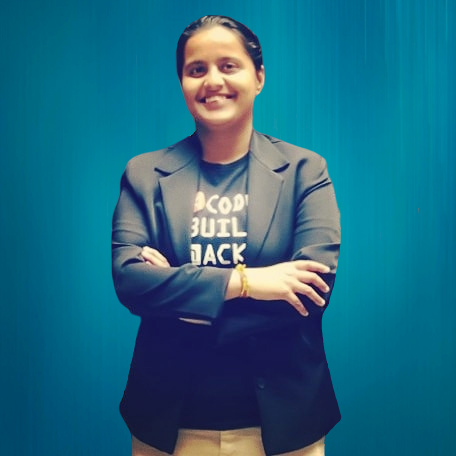
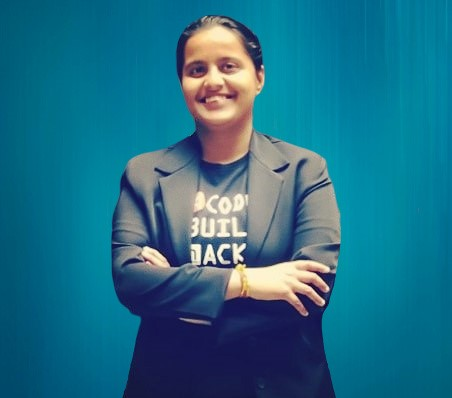
Bugs fixed.. unnecessary commits deleted

Changed region(s): [[0.2168, 0.0302, 0.7743, 1.0]]

diff --git a/index.html b/index.html
@@ -99,29 +99,28 @@
       <section class="ftco-section about-section">
         <div class="container">
           <div class="row d-flex" data-scrollax-parent="true">
-            <div class="col-md-4 author-img" style="background-image: url(images/p1.jpg);" data-scrollax=" properties: { translateY: '-70%'}"></div>
+            <div class="col-md-4 author-img" align="center" alt="responsive-design" style="background-image: url(images/p1.jpg);" data-scrollax=" properties: { translateY: '-70%'}"></div>
             <div class="col-md-2"></div>
             <div class="col-md-6 wrap ftco-animate">
               <div class="about-desc">
                 <h1 class="bold-text">About</h1>
 				</div>
                 <div class="p-5">
-                  <h2 class="mb-5">Hi! I'm Taniya Gupta</h2>
+                  <h1 class="mb-5">Hi! I'm Taniya Gupta</h1>
                   <ul class="ftco-footer-social list-unstyled mt-4">
-			        <h4 class="mb-3">Checkout My Profiles here : </h4>
-					<li><a class="colorlib-logo" href="https://leetcode.com/thetaniyagupta/"><span class="logo-img" ><img src="./images/p3.png" align="center" width="50" alt=""></span></a></li>
-					<li><a class="colorlib-logo" href="https://www.hackerrank.com/thetaniyagupta/"><span class="logo-img" ><img src="./images/p4.png" align="center" width="50" alt=""></span></a></li>
-                    <li><a href="https://github.com/thetaniyagupta"><span class="icon-github"></span></a></li>
-					<li><a href="https://www.linkedin.com/in/thetaniyagupta/"><span class="icon-linkedin"></span></a></li>
-					<li><a href="https://www.facebook.com/thetaniyagupta"><span class="icon-facebook"></span></a></li>
-					<li><a href="https://thetaniyagupta.wordpress.com/"><span class="icon-wordpress"></span></a></li>
+			        <h4 class="mb-3">Checkout My Profiles here: </h4>
+					<li class = "ftco-animate"><a class="colorlib-logo" href="https://leetcode.com/thetaniyagupta/"><span class="logo-img" ><img src="./images/p3.png" align="center" width="30" alt=""></span></a></li>
+					<li class="ftco-animate"><a class="colorlib-logo" href="https://www.hackerrank.com/thetaniyagupta/"><span class="logo-img" ><img src="./images/p4.png" align="center" width="40" alt=""></span></a></li>
+                    <li class="ftco-animate"><a href="https://github.com/thetaniyagupta"><span class="icon-github"></span></a></li>
+					<li class="ftco-animate"><a href="https://thetaniyagupta.medium.com/"><span class="icon-medium"></span></a></li>
+					<li class="ftco-animate"><a href="https://www.linkedin.com/in/thetaniyagupta/"><span class="icon-linkedin"></span></a></li>
+						<li class="ftco-animate"><a href="https://www.facebook.com/thetaniyagupta"><span class="icon-facebook"></span></a></li>
+					<li class="ftco-animate"><a href="https://thetaniyagupta.wordpress.com/"><span class="icon-wordpress"></span></a></li>
 				  </ul>
-				  <a class="primary_btn" href="https://drive.google.com/file/d/1kGXrFimn9OOHi8U9JST1sL9ov-rwcWfl/view?usp=sharing"><span> Get My CV</span></a>
-				  
 				  <a class="primary_btn" href="https://drive.google.com/file/d/1Hf1lsLSv6RbwRTsYmbRR-NNr56U1QmFq/view?usp=sharing"><span>Get My Resume</span></a>
+				  <a class="primary_btn" href="https://form.typeform.com/to/Lv9xkxKO"><span>Get in Touch</span></a>
 				  <p> </p>
-                  <h5>Contact me here!</h5>
-                  <p>Email: <a href="mailto:thetaniyagupta@gmail.com">thetaniyagupta@gmail.com</a></p>
+				 
             </div>
 			</div>
           </div>
@@ -255,7 +254,7 @@ Examination
 													</div>
 										      		<div class="col-md-6">
 										      			<div class="year">
-          					                            <p>2009 - 2014</p>
+          					                            <p>2014</p>
 														<p>Percentage - 86.4% </P>
           				                               </div>
 										      		</div>
@@ -511,17 +510,18 @@ smart watches & VR Headset. Virtual Play Station alternative requiring no additi
                 <ul class="ftco-footer-social list-unstyled">
 				
 				<h4 class="mb-3">Checkout My Profiles here: </h4>
-                  <li class="ftco-animate"><a class="colorlib-logo" href="https://leetcode.com/thetaniyagupta/"><span class="logo-img" ><img src="./images/p3.png" align="center" width="50" alt=""></span></a></li>
-					<li class="ftco-animate"><a class="colorlib-logo" href="https://www.hackerrank.com/thetaniyagupta/"><span class="logo-img" ><img src="./images/p4.png" align="center" width="50" alt=""></span></a></li>
+                  <li class="ftco-animate"><a class="colorlib-logo" href="https://leetcode.com/thetaniyagupta/"><span class="logo-img" ><img src="./images/p3.png" align="center" width="30" alt=""></span></a></li>
+					<li class="ftco-animate"><a class="colorlib-logo" href="https://www.hackerrank.com/thetaniyagupta/"><span class="logo-img" ><img src="./images/p4.png" align="center" width="40" alt=""></span></a></li>
 				  <li class="ftco-animate"><a href="https://github.com/thetaniyagupta"><span class="icon-github"></span></a></li>
+				  	<li class="ftco-animate"><a href="https://thetaniyagupta.medium.com/"><span class="icon-medium"></span></a></li>
                   <li class="ftco-animate"><a href="https://www.linkedin.com/in/thetaniyagupta/"><span class="icon-linkedin"></span></a></li>
 					<li class="ftco-animate"><a href="https://www.facebook.com/thetaniyagupta"><span class="icon-facebook"></span></a></li>
-				  <li class="ftco-animate"><a href="https://thetaniyagupta.wordpress.com/"><span class="icon-wordpress"></span></a></li>
+					<li class="ftco-animate"><a href="https://thetaniyagupta.wordpress.com/"><span class="icon-wordpress"></span></a></li>
                 </ul>
               </div>
               <div class="ftco-footer-widget">
                 <h2 class="mb-3">Contact Me</h2>
-                <p class="h3 email"><a href="mailto:thetaniyagupta@gmail.com">thetaniyagupta@gmail</a></p>
+                <p class="h3 email"><a href="mailto:thetaniyagupta@gmail.com">thetaniyagupta</a></p>
               </div>
             </div>
           </div>

diff --git a/css/style.css b/css/style.css
@@ -96,12 +96,12 @@ address {
   
 .primary_btn {
   display: inline-block;
-  color:  #fff;
+  color:  #000000;
   letter-spacing: 0px;
   font-family: "Rubik", sans-serif;
   font-weight: 500;
   font-size: 14px;
-  line-height: 46px;
+  line-height: 35px;
   outline: none !important;
   text-align: center;
   cursor: pointer;
@@ -109,29 +109,29 @@ address {
   border-radius: 10px;
   background-origin: border-box;
   background-clip: content-box, border-box;
-  background-image: linear-gradient(to right, #4458dc 0%, #854fee 100%), radial-gradient(circle at top left, #4458dc, #854fee);
+  background-image: linear-gradient( #fff,  #fff), radial-gradient(circle at top left, #bdc3c7 , #2c3e50 );
   border: double 2px transparent;
-  box-shadow: 0px 10px 30px rgba(118, 85, 225, 0.3);
+  box-shadow: 0px 10px 30px rgba(240,248,255,0.3);
   margin: 5px; }
   
   .primary_btn span {
-    padding: 0 42px; }
+    padding: 0 10px; }
+   .primary_btn:hover {
+    background-image: linear-gradient(to right, #2c3e50 20%, #bdc3c7 80%), radial-gradient(circle at top left, #bdc3c7, #2c3e50);
+    border: 2px solid #2c3e50;
+    color: #fff;
+    box-shadow: none;
+    background-clip: border-box; }
 	.primary_btn.tr-bg {
-    background-image: linear-gradient( #fff,  #fff), radial-gradient(circle at top left, #4458dc, #854fee);
+    background-image: linear-gradient(to right, #2c3e50 0%, #bdc3c7 100%), radial-gradient(circle at top left, #bdc3c7, #2c3e50);
     border: 2px solid transparent;
     color: #222222;
     box-shadow: none; }
     .primary_btn.tr-bg:hover {
-      background-image: linear-gradient(to right, #4458dc 0%, #854fee 100%), radial-gradient(circle at top left, #4458dc, #854fee);
+      background-image: linear-gradient(to right, #bdc3c7 0%, #2c3e50 100%), radial-gradient(circle at top left, #bdc3c7, #2c3e50);
       border: double 2px transparent;
       color:  #fff;
-      box-shadow: 0px 10px 30px rgba(118, 85, 225, 0.3); }
-	.primary_btn:hover {
-    background-image: linear-gradient( #fff,  #fff), radial-gradient(circle at top left, #4458dc, #854fee);
-    border: 2px solid #854fee;
-    color: #222222;
-    box-shadow: none;
-    background-clip: border-box; }
+      box-shadow: 0px 10px 30px rgba(240,248,255,0.3); }
 	
 ol,
 ul,
@@ -7613,10 +7613,13 @@ header {
   font-weight: 300;
   letter-spacing: 1px; }
 
-@media (max-width: 767.98px) {
+@media {
   .about-section .author-img {
-    display: block;
-    height: 300px; } }
+   display: block;
+    height: 350px;
+    width : 350px;	
+	border-radius: 50%;
+	} }
 
 .wrap {
   padding: 0; }
@@ -7668,7 +7671,7 @@ header {
     float: left; }
 		
   .exp-wrap .desc {
-    width: calc(100% - 270px);	
+    width: calc(100% - 200px);	
 	}
 	 .exp-wrap .desc h4 {
       color: #dc3545;
@@ -7685,7 +7688,7 @@ header {
           color: #8c8c8c	  }
   .exp-wrap .year {
 	 
-    width: 180px; }
+    width: 175px; }
 
 .progress-wrap {
   margin-bottom: 30px; }
@@ -7888,17 +7891,17 @@ textarea.form-control {
 	
 .ftco-footer-social li {
   list-style: none;
-  margin: 0 10px 10px 0;
+  margin: 0 15px 15px 0;
   display: inline-block; }
   .ftco-footer-social li a {
     
 	color: #000000;
-	height: 60px;
-    width: 60px;
+	height: 40px;
+    width: 40px;
     display: block;
     float: left;
     background: rgba(0,0,0, 0.05);
-    border-radius: 50%;
+    border-radius: 70%;
     position: relative; }
     .ftco-footer-social li a span {
       

diff --git a/about.html b/about.html
@@ -1,7 +1,7 @@
 <!DOCTYPE html>
 <html lang="en">
   <head>
-    <title>About - Taniya Gupta</title>
+    <title>Taniya Gupta</title>
     <meta charset="utf-8">
     <meta name="viewport" content="width=device-width, initial-scale=1, shrink-to-fit=no">
     
@@ -214,7 +214,7 @@ Examination
 													</div>
 										      		<div class="col-md-6">
 										      			<div class="year">
-          					                            <p>2009 - 2014</p>
+          					                            <p>2014</p>
 														<p>Percentage - 86.4% </P>
           				                               </div>
 										      		</div>
@@ -237,17 +237,18 @@ Examination
               <div class="ftco-footer-widget mb-5">
                 <ul class="ftco-footer-social list-unstyled">
 					<h4 class="mb-3">Checkout My Profiles here: </h4>
-                  <li class="ftco-animate"><a class="colorlib-logo" href="https://leetcode.com/thetaniyagupta/"><span class="logo-img" ><img src="./images/p3.png" align="center" width="50" alt=""></span></a></li>
-					<li class="ftco-animate"><a class="colorlib-logo" href="https://www.hackerrank.com/thetaniyagupta/"><span class="logo-img" ><img src="./images/p4.png" align="center" width="50" alt=""></span></a></li>
+                  <li class="ftco-animate"><a class="colorlib-logo" href="https://leetcode.com/thetaniyagupta/"><span class="logo-img" ><img src="./images/p3.png" align="center" width="30" alt=""></span></a></li>
+					<li class="ftco-animate"><a class="colorlib-logo" href="https://www.hackerrank.com/thetaniyagupta/"><span class="logo-img" ><img src="./images/p4.png" align="center" width="40" alt=""></span></a></li>
 				  <li class="ftco-animate"><a href="https://github.com/thetaniyagupta"><span class="icon-github"></span></a></li>
+				  	<li class="ftco-animate"><a href="https://thetaniyagupta.medium.com/"><span class="icon-medium"></span></a></li>
                   <li class="ftco-animate"><a href="https://www.linkedin.com/in/thetaniyagupta/"><span class="icon-linkedin"></span></a></li>
 					<li class="ftco-animate"><a href="https://www.facebook.com/thetaniyagupta"><span class="icon-facebook"></span></a></li>
-				  <li class="ftco-animate"><a href="https://thetaniyagupta.wordpress.com/"><span class="icon-wordpress"></span></a></li>
+					<li class="ftco-animate"><a href="https://thetaniyagupta.wordpress.com/"><span class="icon-wordpress"></span></a></li>
                 </ul>
               </div>
               <div class="ftco-footer-widget">
                 <h2 class="mb-3">Contact Me</h2>
-                <p class="h3 email"><a href="mailto:thetaniyagupta@gmail.com">thetaniyagupta@gmail</a></p>
+                <p class="h3 email"><a href="mailto:thetaniyagupta@gmail.com">thetaniyagupta</a></p>
               </div>
             </div>
           </div>

diff --git a/projects.html b/projects.html
@@ -210,17 +210,18 @@ smart watches & VR Headset. Virtual Play Station alternative requiring no additi
               <div class="ftco-footer-widget mb-5">
                 <ul class="ftco-footer-social list-unstyled">
 					<h4 class="mb-3">Checkout My Profiles here: </h4>
-                  <li class="ftco-animate"><a class="colorlib-logo" href="https://leetcode.com/thetaniyagupta/"><span class="logo-img" ><img src="./images/p3.png" align="center" width="50" alt=""></span></a></li>
-					<li class="ftco-animate"><a class="colorlib-logo" href="https://www.hackerrank.com/thetaniyagupta/"><span class="logo-img" ><img src="./images/p4.png" align="center" width="50" alt=""></span></a></li>
+                 <li class="ftco-animate"><a class="colorlib-logo" href="https://leetcode.com/thetaniyagupta/"><span class="logo-img" ><img src="./images/p3.png" align="center" width="30" alt=""></span></a></li>
+					<li class="ftco-animate"><a class="colorlib-logo" href="https://www.hackerrank.com/thetaniyagupta/"><span class="logo-img" ><img src="./images/p4.png" align="center" width="40" alt=""></span></a></li>
 				  <li class="ftco-animate"><a href="https://github.com/thetaniyagupta"><span class="icon-github"></span></a></li>
+				  	<li class="ftco-animate"><a href="https://thetaniyagupta.medium.com/"><span class="icon-medium"></span></a></li>
                   <li class="ftco-animate"><a href="https://www.linkedin.com/in/thetaniyagupta/"><span class="icon-linkedin"></span></a></li>
 					<li class="ftco-animate"><a href="https://www.facebook.com/thetaniyagupta"><span class="icon-facebook"></span></a></li>
-				  <li class="ftco-animate"><a href="https://thetaniyagupta.wordpress.com/"><span class="icon-wordpress"></span></a></li>
+					<li class="ftco-animate"><a href="https://thetaniyagupta.wordpress.com/"><span class="icon-wordpress"></span></a></li>
                 </ul>
               </div>
               <div class="ftco-footer-widget">
                 <h2 class="mb-3">Contact Me</h2>
-                <p class="h3 email"><a href="mailto:thetaniyagupta@gmail.com">thetaniyagupta@gmail</a></p>
+                <p class="h3 email"><a href="mailto:thetaniyagupta@gmail.com">thetaniyagupta</a></p>
               </div>
             </div>
           </div>

diff --git a/contact.html b/contact.html
@@ -119,17 +119,18 @@
               <div class="ftco-footer-widget mb-5">
                 <ul class="ftco-footer-social list-unstyled">
 					<h4 class="mb-3">Checkout My Profiles here: </h4>
-                  <li class="ftco-animate"><a class="colorlib-logo" href="https://leetcode.com/thetaniyagupta/"><span class="logo-img" ><img src="./images/p3.png" align="center" width="50" alt=""></span></a></li>
-					<li class="ftco-animate"><a class="colorlib-logo" href="https://www.hackerrank.com/thetaniyagupta/"><span class="logo-img" ><img src="./images/p4.png" align="center" width="50" alt=""></span></a></li>
+               <li class="ftco-animate"><a class="colorlib-logo" href="https://leetcode.com/thetaniyagupta/"><span class="logo-img" ><img src="./images/p3.png" align="center" width="30" alt=""></span></a></li>
+					<li class="ftco-animate"><a class="colorlib-logo" href="https://www.hackerrank.com/thetaniyagupta/"><span class="logo-img" ><img src="./images/p4.png" align="center" width="40" alt=""></span></a></li>
 				  <li class="ftco-animate"><a href="https://github.com/thetaniyagupta"><span class="icon-github"></span></a></li>
+				  	<li class="ftco-animate"><a href="https://thetaniyagupta.medium.com/"><span class="icon-medium"></span></a></li>
                   <li class="ftco-animate"><a href="https://www.linkedin.com/in/thetaniyagupta/"><span class="icon-linkedin"></span></a></li>
 					<li class="ftco-animate"><a href="https://www.facebook.com/thetaniyagupta"><span class="icon-facebook"></span></a></li>
-				  <li class="ftco-animate"><a href="https://thetaniyagupta.wordpress.com/"><span class="icon-wordpress"></span></a></li>
+					<li class="ftco-animate"><a href="https://thetaniyagupta.wordpress.com/"><span class="icon-wordpress"></span></a></li>
                 </ul>
               </div>
               <div class="ftco-footer-widget">
                 <h2 class="mb-3">Contact Me</h2>
-                <p class="h3 email"><a href="mailto:thetaniyagupta@gmail.com">thetaniyagupta@gmail</a></p>
+                <p class="h3 email"><a href="mailto:thetaniyagupta@gmail.com">thetaniyagupta</a></p>
               </div>
             </div>
           </div>

diff --git a/portfolio.html b/portfolio.html
@@ -312,17 +312,18 @@
               <div class="ftco-footer-widget mb-5">
                 <ul class="ftco-footer-social list-unstyled">
 					<h4 class="mb-3">Checkout My Profiles here: </h4>
-                 <li class="ftco-animate"><a class="colorlib-logo" href="https://leetcode.com/thetaniyagupta/"><span class="logo-img" ><img src="./images/p3.png" align="center" width="50" alt=""></span></a></li>
-					<li class="ftco-animate"><a class="colorlib-logo" href="https://www.hackerrank.com/thetaniyagupta/"><span class="logo-img" ><img src="./images/p4.png" align="center" width="50" alt=""></span></a></li>
+              <li class="ftco-animate"><a class="colorlib-logo" href="https://leetcode.com/thetaniyagupta/"><span class="logo-img" ><img src="./images/p3.png" align="center" width="30" alt=""></span></a></li>
+					<li class="ftco-animate"><a class="colorlib-logo" href="https://www.hackerrank.com/thetaniyagupta/"><span class="logo-img" ><img src="./images/p4.png" align="center" width="40" alt=""></span></a></li>
 				  <li class="ftco-animate"><a href="https://github.com/thetaniyagupta"><span class="icon-github"></span></a></li>
+				  	<li class="ftco-animate"><a href="https://thetaniyagupta.medium.com/"><span class="icon-medium"></span></a></li>
                   <li class="ftco-animate"><a href="https://www.linkedin.com/in/thetaniyagupta/"><span class="icon-linkedin"></span></a></li>
 					<li class="ftco-animate"><a href="https://www.facebook.com/thetaniyagupta"><span class="icon-facebook"></span></a></li>
-				  <li class="ftco-animate"><a href="https://thetaniyagupta.wordpress.com/"><span class="icon-wordpress"></span></a></li>
+					<li class="ftco-animate"><a href="https://thetaniyagupta.wordpress.com/"><span class="icon-wordpress"></span></a></li>
                 </ul>
               </div>
               <div class="ftco-footer-widget">
                 <h2 class="mb-3">Contact Me</h2>
-                <p class="h3 email"><a href="mailto:thetaniyagupta@gmail.com">thetaniyagupta@gmail</a></p>
+                <p class="h3 email"><a href="mailto:thetaniyagupta@gmail.com">thetaniyagupta</a></p>
               </div>
             </div>
           </div>
